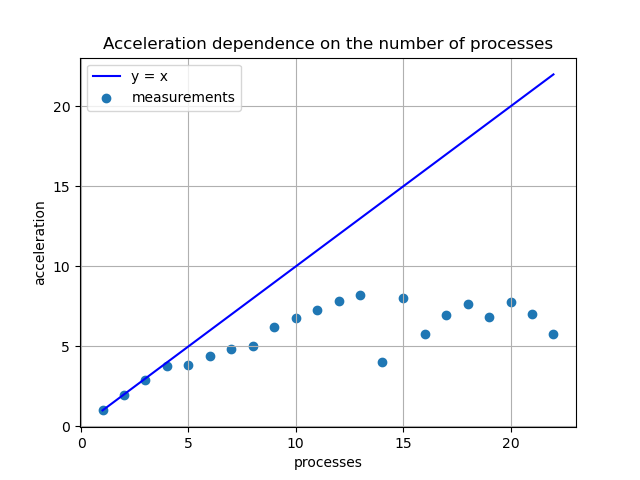
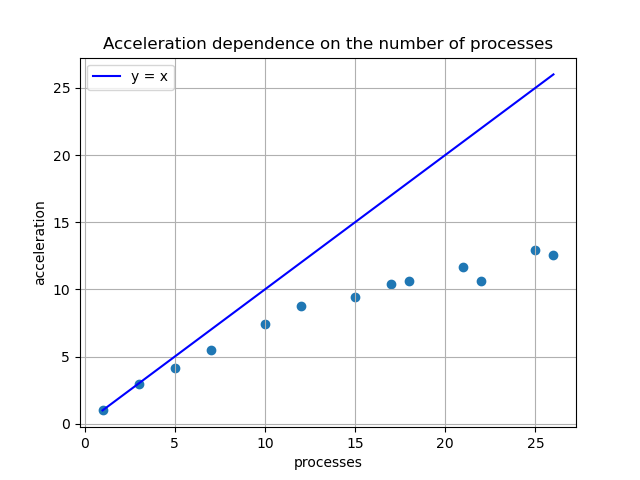
updated plot, task 3

diff --git a/task3/mylife/plot.py b/task3/mylife/plot.py
@@ -1,18 +1,18 @@
 import matplotlib.pyplot as plt
 import numpy as np
 
-data = np.loadtxt('data_plot/time.txt')
-processes = data[0::10, 0]
-data = [min(data[i:i+10, 1]) for i in range(0, data.shape[0], 10)]
+data = np.loadtxt('data/time.txt')
+processes = data[:, 0]
+times = data[:, 1]
 
-time1 = data[0]
-data = [time1 / i for i in data]
+time1 = times[0]
+times = time1 / times
 
 
 xp = np.linspace(np.min(processes), np.max(processes), 100)
 plt.plot(xp, xp, '-', color='blue', label='y = x')
 
-plt.scatter(processes, data, label='measurements')
+plt.scatter(processes, times)
 plt.legend()
 plt.grid()
 plt.xlabel('processes')

diff --git a/task3/mylife/life2d.c b/task3/mylife/life2d.c
@@ -3,8 +3,8 @@
 #include <stdlib.h>
 #include <mpi.h>
 
-#define TIME 0
-#define SAVE_VTK 1
+#define TIME 1
+#define SAVE_VTK 0
 
 #define ind(i, j) (((i + l->nx) % l->nx) + ((j + l->ny) % l->ny) * (l->nx))
 
@@ -75,7 +75,7 @@ int main(int argc, char **argv)
 	if (l.rank == 0) {
 		time = MPI_Wtime() - time;
 		FILE *f;
-		f = fopen("data_plot/time.txt", "a");
+		f = fopen("data/time.txt", "a");
 		assert(f);
 		fprintf(f, "%d %f\n", l.num_tasks, time);
 		fclose(f);
